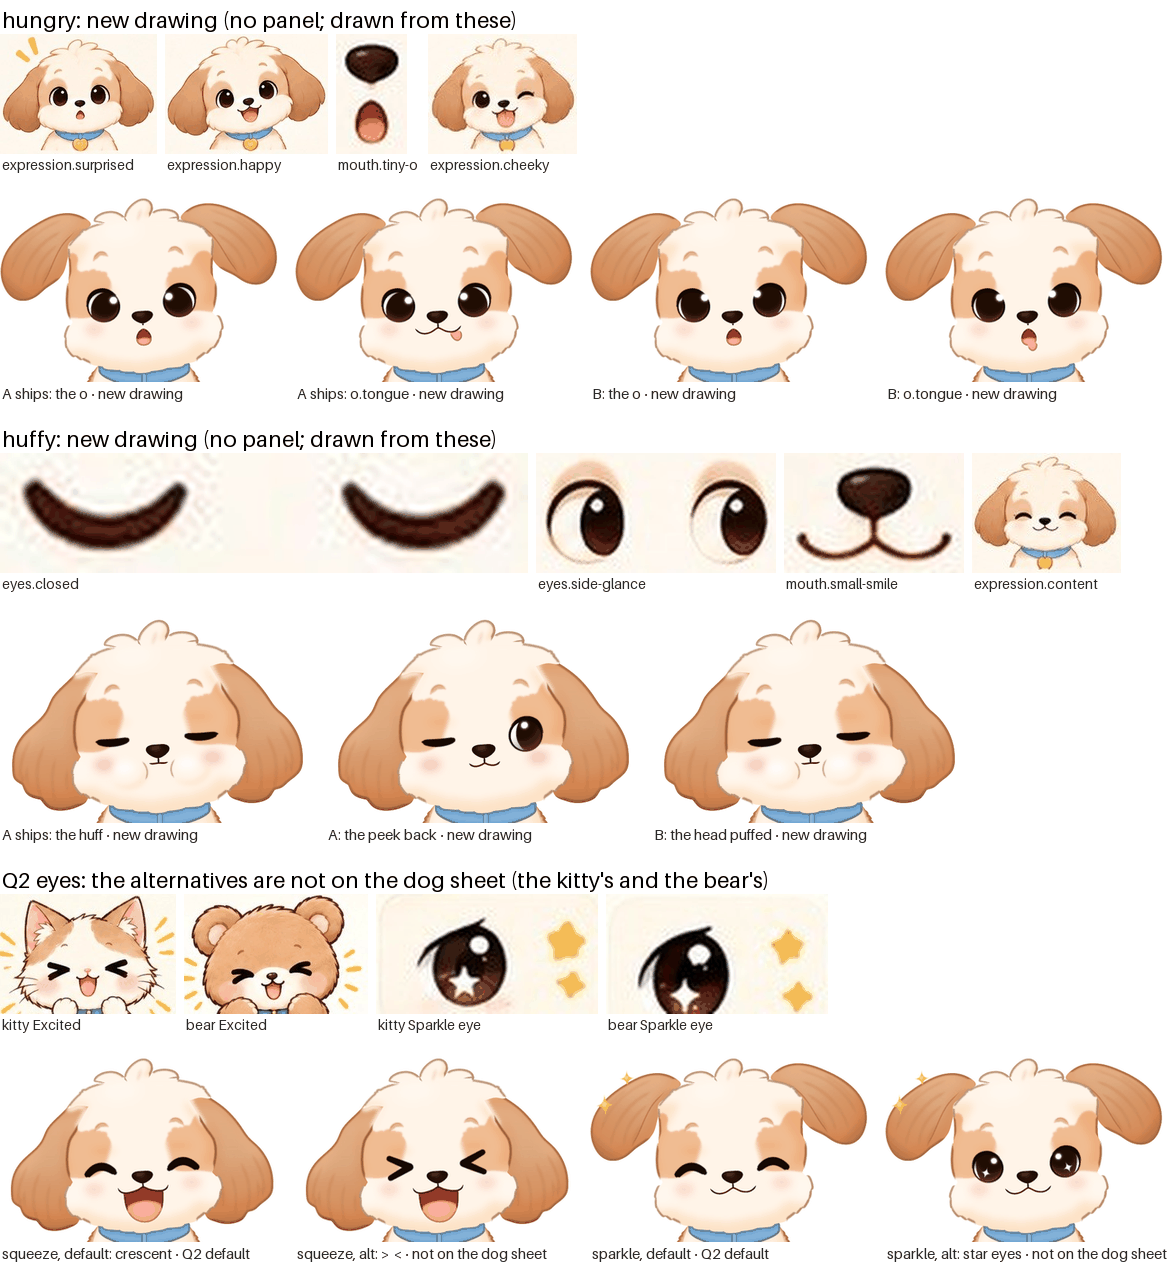
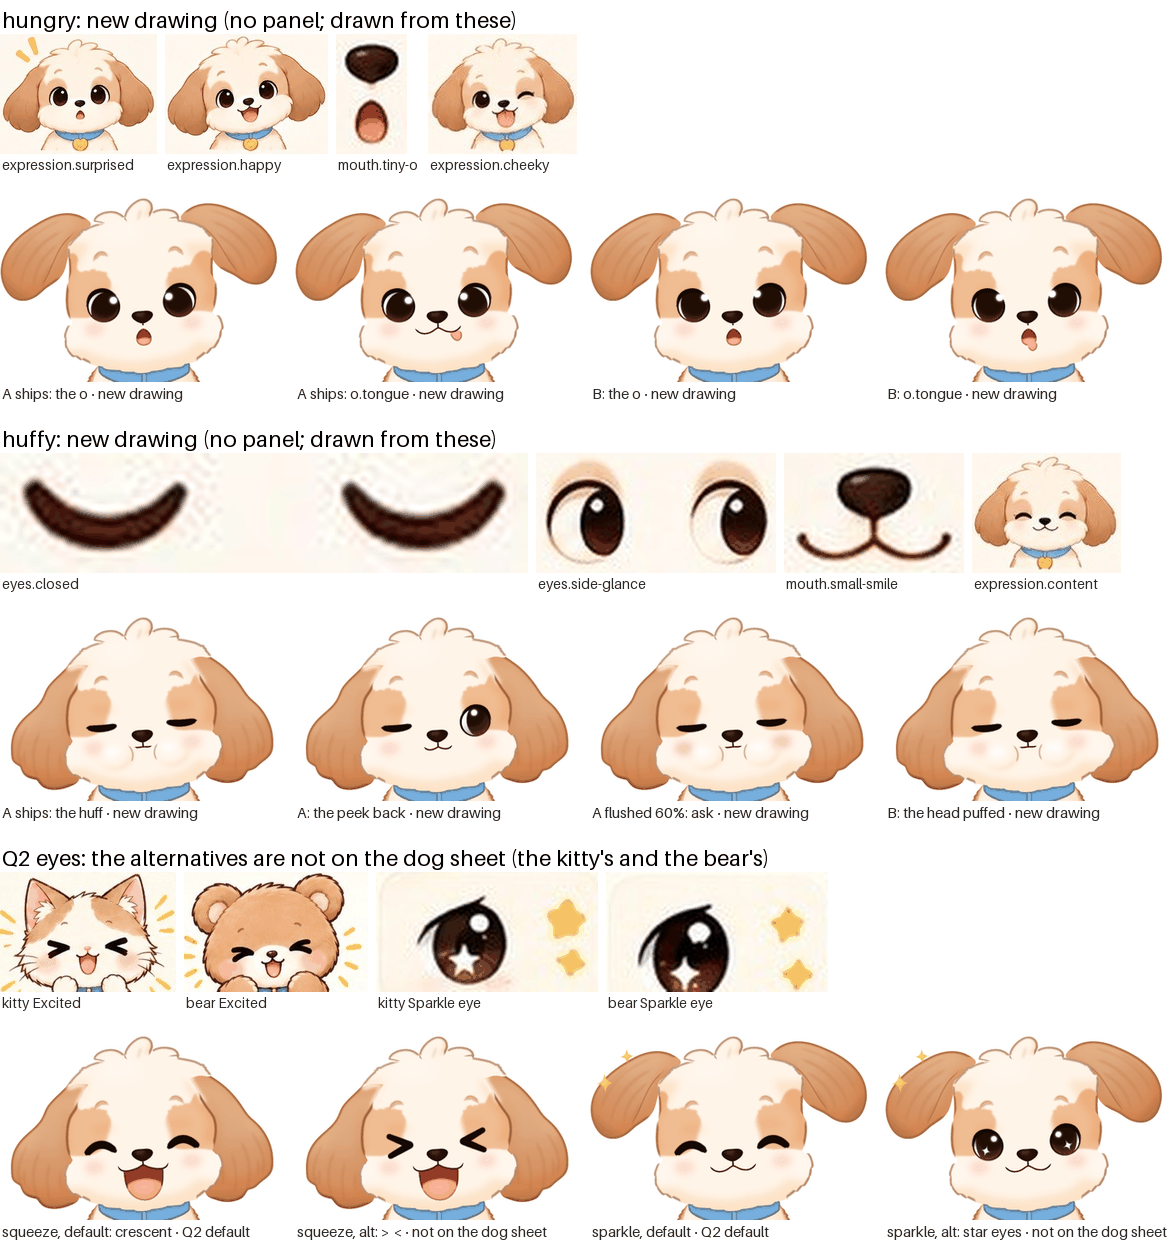
Faces: huffy keeps the resting blush, its 60% flush shown for the founder
The table names no blush level for huffy, so the package takes the safe
default, the resting level; the 60% flush the first drawing keyed is in the
review render beside it for the founder to choose.

Claude-Session: https://claude.ai/code/session_01MXaHnDR5xXHB9UwvyUL8cb

diff --git a/qa/phase3/faces/new/new.ts b/qa/phase3/faces/new/new.ts
@@ -42,6 +42,9 @@ const STILLS: { still: string; clip: Clip; label: string; title: string }[] = [
   { still: "hungry-B-o", clip: variant("hungry_B_o", clip("hungry", hungry), { "eye.L": "eagerB", "eye.R": "eagerB", mouth: "o" }), label: "new drawing", title: "hungry B, its first beat: o" },
   { still: "huffy-A", clip: { ...clip("huffy", huffy), name: "review_huffy_A" }, label: "new drawing", title: "huffy A (ships): flat lids, pressed, cheeks puffed inside" },
   { still: "huffy-A-peek", clip: { ...clip("huffy", huffy, true), name: "review_huffy_A_peek" }, label: "new drawing", title: "huffy, its peek back: peekBack, tinySmile" },
+  // The flush the first drawing keyed: the table names no level for huffy, so the package keeps the resting level
+  // (DECISIONS 161) and this one is the founder's to choose.
+  { still: "huffy-A-flush", clip: { ...clip("huffy", { ...huffy, blush: 0.6 }), name: "review_huffy_A_flush" }, label: "new drawing", title: "huffy A flushed to 60%, for the founder" },
   { still: "huffy-B", clip: variant("huffy_B", clip("huffy", huffy), { "head.base": "puffed", "head.line": "puffed" }), label: "new drawing", title: "huffy B: the head itself puffed as well" },
   { still: "q2-squeeze-default", clip: { ...clip("ticklish", ticklish), name: "review_q2_squeeze_default" }, label: "Q2 default", title: "squeeze, Q2's default: the happy crescent" },
   { still: "q2-squeeze-alt", clip: variant("q2_squeeze_alt", clip("ticklish", ticklish), { "eye.L": "squeezeAlt", "eye.R": "squeezeAlt" }), label: "not on the dog sheet", title: "squeeze, the alternative: > <" },

diff --git a/characters/dog/src/presets.ts b/characters/dog/src/presets.ts
@@ -172,8 +172,9 @@ export const PRESETS: Record<string, Preset> = {
     sequence: "closed or half-closed, glancing away, peeking back with a tiny smile every 4–6 s",
     eyes: ["flat", "peekBack"], eyesHow: "then", eyesNote: "closed or half-closed, glancing away, peeking back with a tiny smile every 4–6 s",
     mouth: ["pressed", "tinySmile"], mouthHow: "then", mouthNote: "puffed cheeks, a small pressed mouth; the tiny smile as it peeks back",
-    // The puffed cheeks flush to 60%: unflushed, the puff reads as jowls at phone size (DECISIONS 152).
-    ears: "neutral", brows: "neutral", cheeks: "puffed", blush: 0.6,
+    // The table names no blush level for huffy, so it keeps the resting level, the safe default; the 60% flush the
+    // first drawing keyed is shown for the founder in the review render (DECISIONS 161).
+    ears: "neutral", brows: "neutral", cheeks: "puffed", blush: null,
     panels: "none: drawn new for Grumpy and approved by the founder; never the sheets' Angry or Pout, and never held more than 6 s without a peek back",
     crops: [], still: { eyes: "flat", mouth: "pressed" }, peek: { eye: "L", mouth: "tinySmile" },
     drawnNew: { from: ["expressions.eyes.closed", "expressions.eyes.side-glance", "expressions.mouth.small-smile", "master.expression.content"] },

diff --git a/characters/dog/test/faces.test.ts b/characters/dog/test/faces.test.ts
@@ -434,8 +434,8 @@ test("the face clips are what presets.ts writes: one per preset, sound, at the f
   assert.deepEqual(validate(rig, [faceClip("shy", { ...PRESETS.shy!, blush: 1 })]), [], "a clip at 100%");
   assert.throws(() => blushAlpha(1.01), /past the 0 to 1/);
   assert.throws(() => blushAlpha(-0.1), /past the 0 to 1/);
-  // Shy and blissful at the table's levels, and huffy's puffed cheeks flushed (DECISIONS 152).
-  assert.deepEqual(Object.entries(PRESETS).filter(([, p]) => p.blush !== null).map(([n, p]) => [n, p.blush]), [["shy", 0.8], ["blissful", 0.7], ["huffy", 0.6]]);
+  // Shy and blissful at the table's levels, and no other: the table names none for the rest, huffy included (DECISIONS 161).
+  assert.deepEqual(Object.entries(PRESETS).filter(([, p]) => p.blush !== null).map(([n, p]) => [n, p.blush]), [["shy", 0.8], ["blissful", 0.7]]);
   // Huffy's peek back lets its cheeks go: one eye open again, the other still shut, the tiny smile.
   const peek = stillOf(PRESETS.huffy!, true);
   assert.deepEqual([peek.eyes.L, peek.eyes.R, peek.mouth, peek.cheeks], ["peekBack", "flat", "tinySmile", undefined]);

diff --git a/qa/phase3/faces/new/sheet.py b/qa/phase3/faces/new/sheet.py
@@ -36,8 +36,8 @@ GROUPS = [
      "captions": ["A ships: the o", "A ships: o.tongue", "B: the o", "B: o.tongue"]},
     {"title": "huffy: new drawing (no panel; drawn from these)",
      "panels": ["expressions.eyes.closed", "expressions.eyes.side-glance", "expressions.mouth.small-smile", "master.expression.content"],
-     "stills": ["huffy-A", "huffy-A-peek", "huffy-B"],
-     "captions": ["A ships: the huff", "A: the peek back", "B: the head puffed"]},
+     "stills": ["huffy-A", "huffy-A-peek", "huffy-A-flush", "huffy-B"],
+     "captions": ["A ships: the huff", "A: the peek back", "A flushed 60%: ask", "B: the head puffed"]},
     {"title": "Q2 eyes: the alternatives are not on the dog sheet (the kitty's and the bear's)",
      "panels": ["kitty Excited", "bear Excited", "kitty Sparkle eye", "bear Sparkle eye"],
      "stills": ["q2-squeeze-default", "q2-squeeze-alt", "q2-sparkle-default", "q2-sparkle-alt"],

diff --git a/characters/dog/DECISIONS.md b/characters/dog/DECISIONS.md
@@ -526,3 +526,6 @@ Crops: `expressions/expressions.eyes.{open,side-glance}.png`; `qa/phase3/faces/n
 
 **160. The blush is drawn so its reference level is 100%, the spec's whole range (replacing 145's 0.95).** Each view's blush was stretched so match.py's fit read 0.95 at alpha 1 (145), so a level past 0.95 asked an alpha past 1, which the format refuses, and `blushAlpha` neither clamped nor said so (the review: 0.96 gave 1.011, refused). The spec's range is 0 to 100% (L474), and the strawberry's blush goes all the way up (L968). Each view's stretch is raised until the reddest tenth of the cheek's light pixels, the tenth palette.py's fit averages, is the full printed pink: the front's from 1.229 to 1.475, the three-quarter's from 1.113 to 1.224, the side's from 1.268 to 1.522, each the least of a 5% wedge that reads 1 (the front read 0.994 and 0.999 a step lower, the side 0.997). At alpha 1 the fit reads 0.999 and 1 in front, 1 on the three-quarters and 0.999 on the sides. `BLUSH_REFERENCE` is 1, the rest alpha 0.35, and `blushAlpha` refuses a level outside 0 to 1 rather than write a clip the format refuses; `faces.test.ts` holds a clip at 100% sound and 1.01 refused. Fitted by match.py on the stills: the five blushing rest views read 0.349 to 0.351 (0.348 to 0.35 before), shy 0.8 and 0.801 (asked 0.8), blissful 0.692 and 0.693 (asked 0.7: its crescents lie in the cheek's box and take the fit about 1% under its key), huffy 0.601 either side (asked 0.6). The rest stills change only in the blushes, by at most 4/255 (front, 403 px past 2/255), 2/255 (three-quarters) and 3/255 (sides); the back not at all; every view passes its sheet match.
 Numbers: `qa/phase3/<view>/match.json` (blush); the stills of face_shy and face_blissful, and each view's still with its blush at alpha 1, fitted by `characters/sheetmatch/match.py`.
+
+**161. Huffy keeps the resting blush; its 60% flush is the founder's to choose (replacing 152's flush).** The table names no blush level for huffy (L497), so 152's 60% was a product call no panel or line of the spec makes, and a flushed face with puffed cheeks and shut flat lids leans further toward "red with anger" than the resting level does (the last review). CLAUDE.md asks for the safest reversible default and a question: huffy ships at the resting level (`blush: null`, fitted 0.349 and 0.35 like the rest), and the review sheet shows it flushed to 60% beside it (`huffy-A-flush`, "A flushed 60%: ask"). At phone size the puff still reads without the flush: the ")(" creases and the light domes carry it (152 found the unflushed puff read as a white muzzle; with the cheeks' shading as drawn now, it reads as cheeks). The question for docs/QUESTIONS.md, which is not this lane's file: should huffy's cheeks flush, and to what level?
+Evidence: `qa/phase3/faces/new/sheet.png` (huffy's row).
